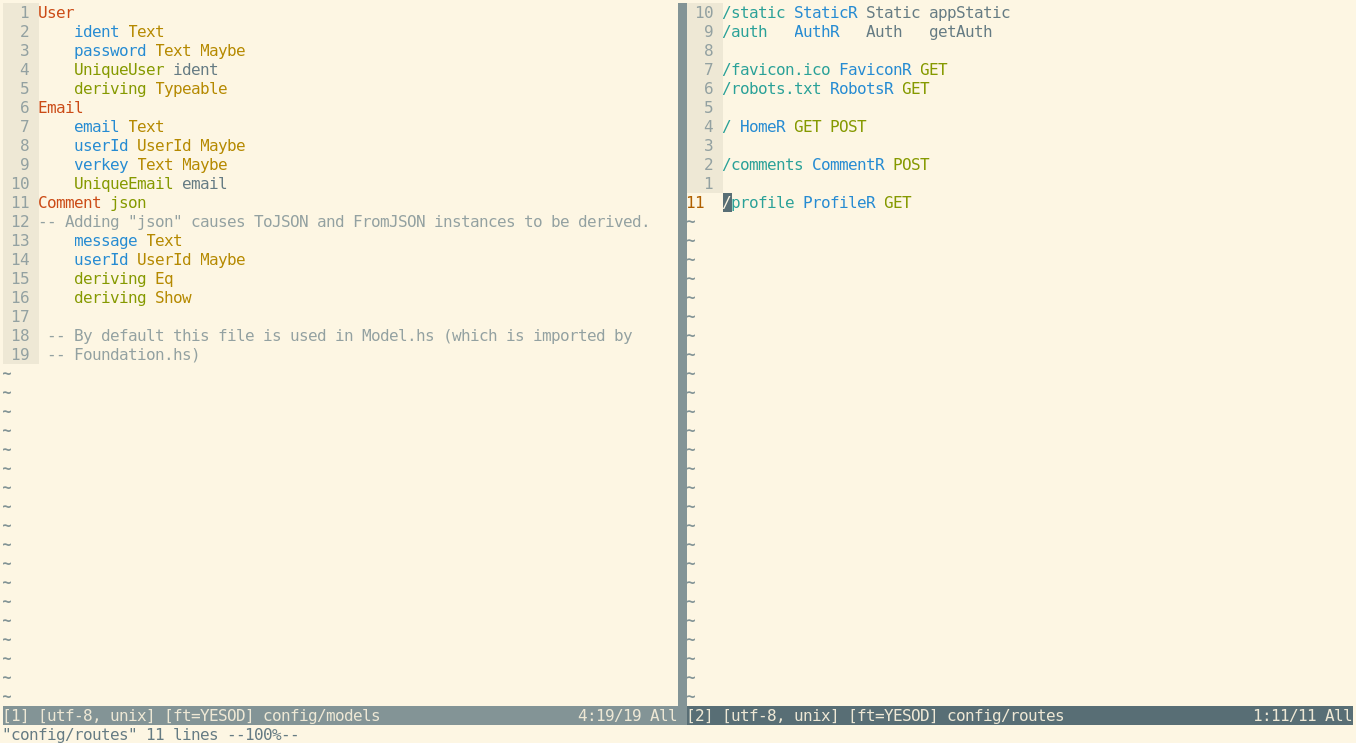
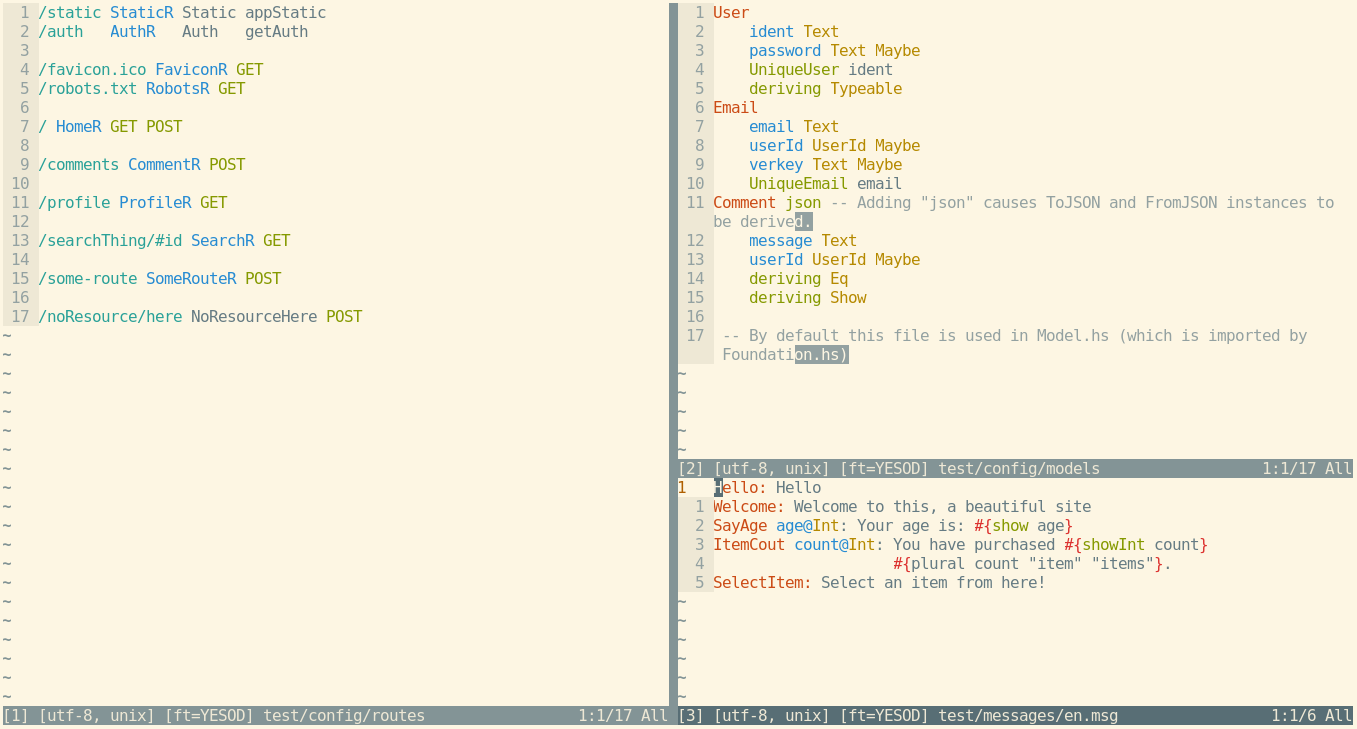
Add messages doc and screenshot

Changed region(s): [[0.0, 0.0, 1.0, 1.0], [0.0, 0.0, 0.3717, 0.4829], [0.4027, 0.4225, 0.4646, 0.4829]]

diff --git a/README.md b/README.md
@@ -5,7 +5,9 @@ Vim plugin for the Haskell [Yesod web framework](http://www.yesodweb.com/).
 ![Yesod](yesod_logo.png)
 
 
-* Syntax for `config/models` and `config/routes`
+* Syntax for `config/models`
+* Syntax for `config/routes`
+* Syntax for i18n `messages`
 * Jump to handler files from declared routes
 * Create new handlers for routes under the cursor while in `config/routes`
 
